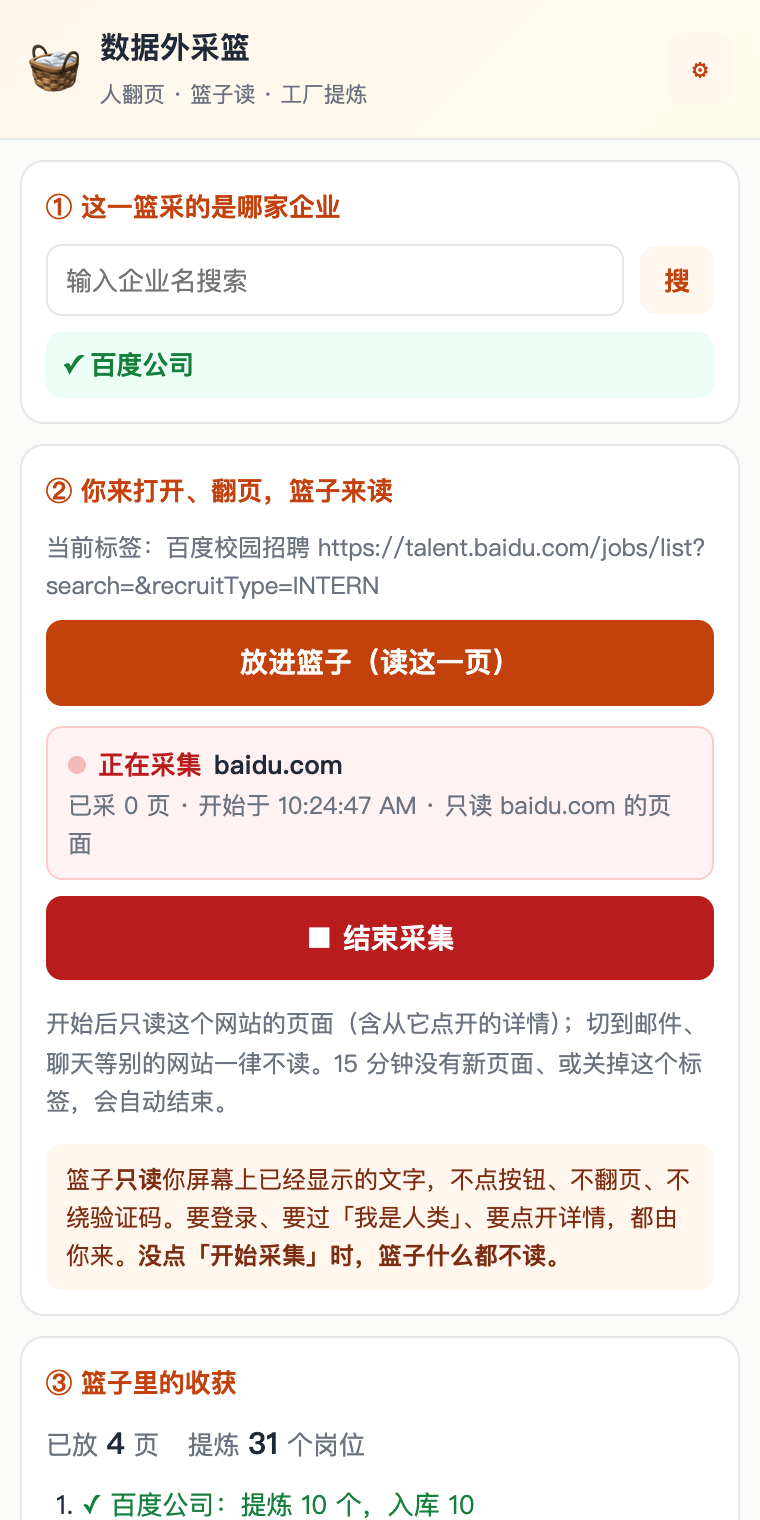
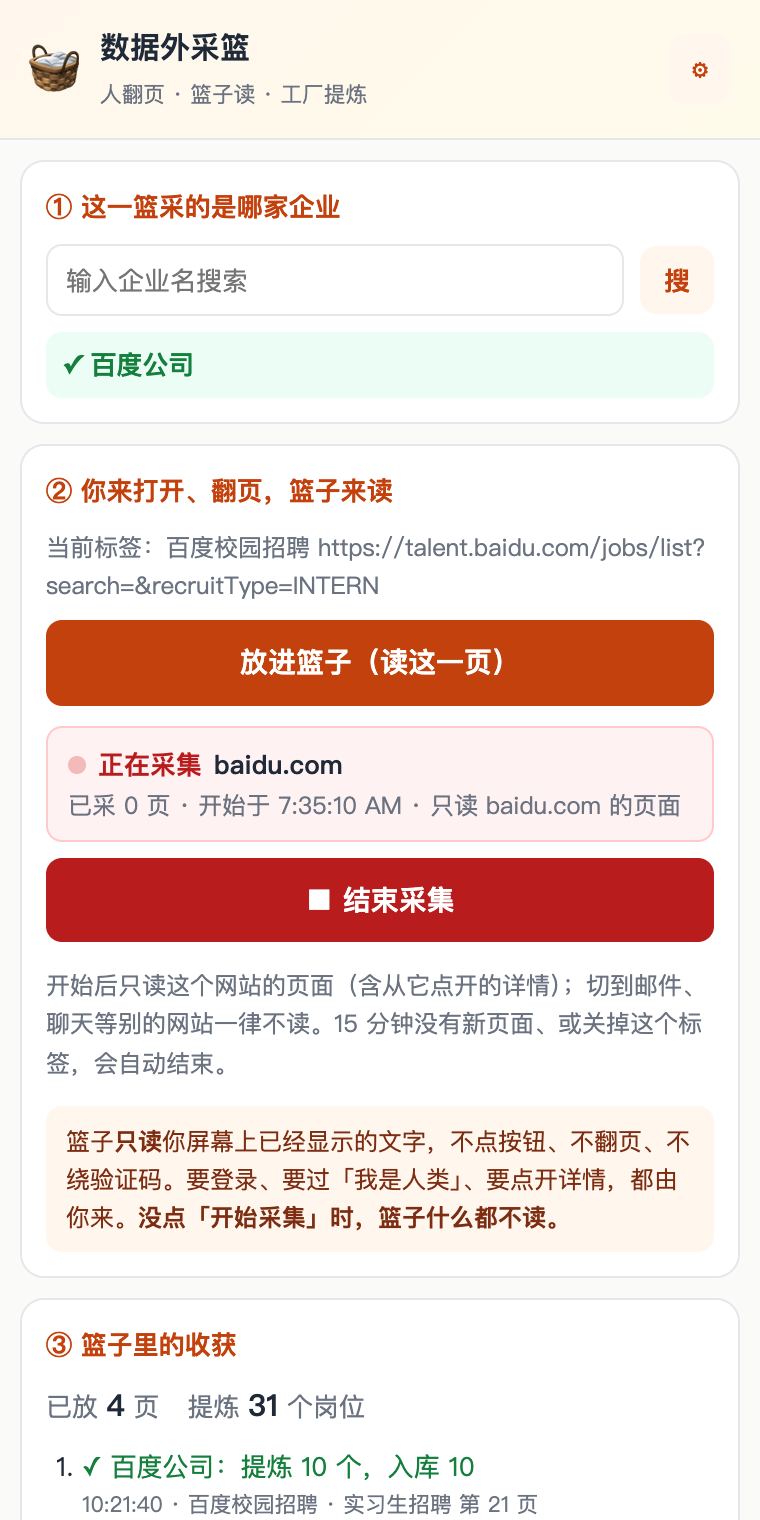
feat(数据外采篮 v0.2.0): 进度提示 / 挡空壳 / 列表与详情合并 / 精确跳转
- 进度：提炼时侧边栏顶上挂走秒提示（通常 10–30 秒，超过 40 秒提示页面较长）
- 挡空壳：名字在页面原文里找不到的岗位不入库（实测一个只有导航的页面被模型凭空挤出 9 个岗位，全部挡掉）
- 合并：没有岗位编号的站，同名同城的列表行 + 详情页（其中一条「仅列表信息」）并成一条
- 精确跳转：收篮子返回这一篮最终落在的岗位 id（被合并的指向留下那条），「看这一篮的 N 个岗位 ↗」只打开这几条；岗位库支持 ids 筛选并显示「只看这一篮」标签

Changed region(s): [[0.0605, 0.5257, 0.9382, 1.0]]

diff --git a/src/app/admin/db-job/page.tsx b/src/app/admin/db-job/page.tsx
@@ -34,7 +34,7 @@ export default function DbJobPage() {
   const [pageSize, setPageSize] = useState(50);
   const [selected, setSelected] = useState<React.Key[]>([]);
   const [exporting, setExporting] = useState(false);
-  const [filters, setFilters] = useState({ search: '', jobType: CAMPUS_JOB_TYPES.join(','), season: '', remote: '', status: '', review: '', overseas: false, missingJd: false, companyId: '', companyName: '', source: '', flag: '', publishFrom: '', publishTo: '' });
+  const [filters, setFilters] = useState({ search: '', jobType: CAMPUS_JOB_TYPES.join(','), season: '', remote: '', status: '', review: '', overseas: false, missingJd: false, companyId: '', companyName: '', source: '', flag: '', ids: '', publishFrom: '', publishTo: '' });
   const [sources, setSources] = useState<Record<string, number>>({});
   // 从「校招岗位提取」任务跳过来：?companyId=&companyName=&jobType=all 直接定位到刚提取的那批。
   // 以前跳过来是默认的「校招口径」，社招岗位被默认筛掉，看起来像「提取成功了库里却没有」。
@@ -45,7 +45,7 @@ export default function DbJobPage() {
     const jt = u.get('jobType');
     setFilters(f => ({
       ...f,
-      companyId: u.get('companyId') || '', companyName: u.get('companyName') || '', search: u.get('search') || '',
+      companyId: u.get('companyId') || '', companyName: u.get('companyName') || '', ids: u.get('ids') || '', search: u.get('search') || '',
       jobType: jt === 'all' ? '' : (jt ?? f.jobType),
       season: u.get('season') || '', remote: u.get('remote') || '', status: u.get('status') || '', review: u.get('review') || '',
       overseas: u.get('overseas') === '1', missingJd: u.get('missingJd') === '1',
@@ -64,7 +64,7 @@ export default function DbJobPage() {
     const put = (k: string, v: string | boolean) => { if (v) q.set(k, v === true ? '1' : String(v)); };
     put('search', filters.search); put('jobType', filters.jobType === CAMPUS_JOB_TYPES.join(',') ? '' : (filters.jobType || 'all'));
     put('season', filters.season); put('remote', filters.remote); put('status', filters.status); put('review', filters.review);
-    put('overseas', filters.overseas); put('missingJd', filters.missingJd); put('companyId', filters.companyId); put('companyName', filters.companyName);
+    put('overseas', filters.overseas); put('missingJd', filters.missingJd); put('companyId', filters.companyId); put('companyName', filters.companyName); put('ids', filters.ids);
     put('source', filters.source); put('flag', filters.flag); put('publishFrom', filters.publishFrom); put('publishTo', filters.publishTo);
     if (page > 1) q.set('page', String(page));
     if (pageSize !== 50) q.set('pageSize', String(pageSize));
@@ -74,7 +74,7 @@ export default function DbJobPage() {
 
   const query = useCallback((extra: Record<string, string> = {}) => new URLSearchParams({
     search: filters.search, jobType: filters.jobType, season: filters.season, remote: filters.remote,
-    status: filters.status, review: filters.review, overseas: filters.overseas ? '1' : '', missingJd: filters.missingJd ? '1' : '', companyId: filters.companyId,
+    status: filters.status, review: filters.review, overseas: filters.overseas ? '1' : '', missingJd: filters.missingJd ? '1' : '', companyId: filters.companyId, ids: filters.ids,
     source: filters.source, flag: filters.flag, publishFrom: filters.publishFrom, publishTo: filters.publishTo, ...extra,
   }), [filters]);
 
@@ -235,6 +235,7 @@ export default function DbJobPage() {
       <Panel padding={16}>
         <div style={{ display: 'flex', gap: 8, marginBottom: 12, flexWrap: 'wrap', alignItems: 'center' }}>
           <Input.Search key={urlReady ? 'ready' : 'init'} defaultValue={filters.search} placeholder="搜索岗位 / 企业 / 校招项目 / 地点" allowClear style={{ width: 300 }} onSearch={v => setFilter({ search: v })} />
+          {filters.ids && <Tag closable color="orange" style={{ padding: '4px 10px', fontSize: 13 }} onClose={() => setFilter({ ids: '' })}>🧺 只看这一篮采到的 {filters.ids.split(',').filter(Boolean).length} 个岗位</Tag>}
           {filters.companyId && <Tag closable color="purple" style={{ padding: '4px 10px', fontSize: 13 }} onClose={() => setFilter({ companyId: '', companyName: '' })}>只看：{filters.companyName || `企业 #${filters.companyId}`}</Tag>}
           <Select value={filters.jobType} style={{ width: 170 }} onChange={v => setFilter({ jobType: v })}
             options={[{ value: CAMPUS_JOB_TYPES.join(','), label: '校招口径（默认）' }, { value: '', label: '全部类型' }, ...toOptions(JOB_TYPE_LABELS)]} />

diff --git a/extension/data-basket/sidepanel.js b/extension/data-basket/sidepanel.js
@@ -81,9 +81,12 @@ function addLog(item, save = true) {
   const li = document.createElement('li');
   li.innerHTML = `<span class="${item.ok ? 'ok' : 'bad'}"></span><small></small>${item.ok && item.companyId ? '<a class="go" target="_blank">去岗位库看 ↗</a>' : ''}`;
   const go = li.querySelector('a.go');
-  if (go) go.href = `${state.base.replace(/\/$/, '')}/admin/db-job?companyId=${item.companyId}&companyName=${encodeURIComponent(item.company)}&jobType=all${item.kind === 'detail' ? '&flag=%E8%AF%A6%E6%83%85%E5%B7%B2%E8%A1%A5' : ''}`;
+  if (go) go.href = item.ids && item.ids.length
+    ? `${state.base.replace(/\/$/, '')}/admin/db-job?ids=${item.ids.join(',')}&jobType=all`
+    : `${state.base.replace(/\/$/, '')}/admin/db-job?companyId=${item.companyId}&companyName=${encodeURIComponent(item.company)}&jobType=all`;
+  if (go) go.textContent = item.ids && item.ids.length ? `看这一篮的 ${item.ids.length} 个岗位 ↗` : '去岗位库看 ↗';
   li.querySelector('span').textContent = item.note ? '■ 采集结束' : item.ok ? `✓ ${item.company}：提炼 ${item.jobs} 个，入库 ${item.saved}${item.kind === 'detail' ? '（详情）' : ''}` : `✗ ${item.error}`;
-  li.querySelector('small').textContent = `${item.time} · ${item.title || ''}`;
+  li.querySelector('small').textContent = `${item.time} · ${item.title || ''}${item.secs ? ` · 用时 ${item.secs} 秒` : ''}${item.dropped ? ` · 挡掉 ${item.dropped} 条原文里找不到的` : ''}`;
   $('log').prepend(li);
   if (save) chrome.storage.local.get('log').then(s => chrome.storage.local.set({ log: [item, ...(s.log || [])].slice(0, 100) }));
 }
@@ -98,13 +101,18 @@ async function putInBasket(reason) {
   const h = hash(snap.text);
   if (reason === 'follow' && h === state.lastHash) return;
   state.lastHash = h; state.sending = true; $('once').disabled = true; $('once').textContent = '篮子正在交给工厂…';
+  const t0 = Date.now();
+  const tick = document.createElement('li'); tick.className = 'working'; $('log').prepend(tick);
+  const draw = () => { const sec = Math.round((Date.now() - t0) / 1000); tick.innerHTML = '<span class="spin">◐</span> '; tick.append(sec < 40 ? `正在提炼这一页… ${sec} 秒（通常 10–30 秒）` : `页面较长，再等等… ${sec} 秒`); const sm = document.createElement('small'); sm.textContent = snap.title || ''; tick.append(sm); };
+  draw(); const timer = setInterval(draw, 1000);
   try {
     const r = await api('/api/basket/page', { method: 'POST', body: JSON.stringify({ companyId: state.company.id, ...snap, kind: 'auto' }) });
     state.pages++; state.jobs += r.jobs; if (state.session) state.session.pages++; renderStats(); chrome.storage.local.set({ pages: state.pages, jobs: state.jobs });
-    addLog({ ok: true, company: r.company, companyId: state.company.id, jobs: r.jobs, saved: r.saved, kind: r.kind, title: snap.title, time: new Date().toLocaleTimeString() });
+    addLog({ ok: true, company: r.company, companyId: state.company.id, ids: r.ids || [], dropped: r.dropped || 0, secs: Math.round((Date.now() - t0) / 1000), jobs: r.jobs, saved: r.saved, kind: r.kind, title: snap.title, time: new Date().toLocaleTimeString() });
   } catch (e) {
     addLog({ ok: false, error: e.message, title: snap.title, time: new Date().toLocaleTimeString() });
   } finally {
+    clearInterval(timer); tick.remove();
     state.sending = false; $('once').disabled = false; $('once').textContent = '放进篮子（读这一页）';
   }
 }

diff --git a/src/lib/job-store.ts b/src/lib/job-store.ts
@@ -226,6 +226,8 @@ export async function markRealEntry(companyId: number, company: string, url: str
  * 同一家企业里「岗位编号 + 城市」相同的在招岗位只留一条：留内容最全的（职责最长），另一条有而它没有的字段补过来，另一条软删。
  * 起因：百度列表页的岗位行没有独立链接，按「企业|编号|城市」去重；点开详情页读到的同一个岗位有链接，按链接去重——成了两条（10-16）。
  */
+/** 最近一次合并：被并掉的岗位 id → 留下的那条 id（数据外采篮用它把「去岗位库看」指到真正留下的记录） */
+export const mergedInto = new Map<number, number>();
 export async function mergeSameReqId(companyId: number) {
   const { data } = await supabaseAdmin.from('jobs').select('*').eq('company_id', companyId).not('if_delete', 'is', true).not('job_req_id', 'is', null).neq('job_req_id', '');
   const groups = new Map<string, any[]>();
@@ -251,7 +253,27 @@ export async function mergeSameReqId(companyId: number) {
     if (longest && longest !== keep.name) patch.name = longest;
     await supabaseAdmin.from('jobs').update(patch).eq('id', keep.id);
     await supabaseAdmin.from('jobs').update({ if_delete: true, updated_at: new Date().toISOString() }).in('id', rest.map(r => r.id));
+    for (const r of rest) mergedInto.set(r.id, keep.id);
     merged += rest.length;
+  }
+  // 第二遍：没有岗位编号的站，列表行和详情页按名称 + 城市对上（名称去掉「北京-」这类城市前缀），其中一条是「仅列表信息」才并
+  const { data: rest2 } = await supabaseAdmin.from('jobs').select('*').eq('company_id', companyId).not('if_delete', 'is', true).eq('status', 'open');
+  const nameKey = (j: any) => `${String(j.name || '').replace(/\s+/g, '').replace(/^[\u4e00-\u9fa5]{2,3}[-－—]/, '').toLowerCase()}|${String(j.location || '').trim()}`;
+  const g2 = new Map<string, any[]>();
+  for (const j of rest2 || []) g2.set(nameKey(j), [...(g2.get(nameKey(j)) || []), j]);
+  for (const g of g2.values()) {
+    if (g.length !== 2 || !g.some(j => (j.collect_flags || []).includes('仅列表信息'))) continue;
+    const ids = g.map(j => String(j.job_req_id || '')).filter(Boolean);
+    if (new Set(ids).size > 1) continue;   // 两条编号不一样：是两个岗位
+    g.sort((x, y) => String(y.responsibilities || '').length - String(x.responsibilities || '').length);
+    const [keep, drop] = g;
+    const patch: Record<string, any> = {};
+    for (const [k, v] of Object.entries(drop)) { if (SKIP.has(k) || v == null || v === '' || (Array.isArray(v) && !v.length)) continue; const cur = keep[k]; if (cur == null || cur === '' || (Array.isArray(cur) && !cur.length)) patch[k] = v; }
+    const flags = new Set<string>([...(keep.collect_flags || []), ...(drop.collect_flags || [])]); if (flags.has('详情已补')) flags.delete('仅列表信息');
+    patch.collect_flags = [...flags];
+    await supabaseAdmin.from('jobs').update(patch).eq('id', keep.id);
+    await supabaseAdmin.from('jobs').update({ if_delete: true, updated_at: new Date().toISOString() }).eq('id', drop.id);
+    mergedInto.set(drop.id, keep.id); merged++;
   }
   return merged;
 }

diff --git a/src/lib/basket.ts b/src/lib/basket.ts
@@ -7,7 +7,7 @@
  */
 import { supabaseAdmin } from '@/lib/supabase';
 import { structureJobData } from '@/lib/agents/structurer-job';
-import { upsertJobsFromLog } from '@/lib/job-store';
+import { upsertJobsFromLog, mergedInto } from '@/lib/job-store';
 import { verifyToken, signToken, type SessionPayload } from '@/lib/jwt';
 
 export const BASKET_MODEL = () => process.env.BASKET_MODEL || process.env.CHEAP_MODEL || 'qwen-plus';
@@ -67,6 +67,13 @@ export async function ingestBasketPage(user: SessionPayload, p: BasketPage) {
     await supabaseAdmin.from('job_crawl_logs').update({ structurer_status: 'failed', error_message: '提炼失败' }).eq('id', log.id);
     throw new Error('这一页没提炼出结果，换一页再试');
   }
+  // 挡空壳：模型提炼出来、但名字在这一页原文里找不到的岗位不要（几乎全是导航的薄页面容易被挤出一个占位岗位）
+  const flat = (x: string) => String(x || '').replace(/\s+/g, '').toLowerCase();
+  const T = flat(text);
+  const coreName = (n: string) => flat(n).replace(/^[\u4e00-\u9fa5]{2,3}[-－—]/, '').replace(/[（(][^）)]*[）)]$/, '').slice(0, 12);
+  const kept = r.jobs.filter(j => { const c = coreName(String(j.name || '')); return c.length >= 2 && T.includes(c); });
+  const dropped = r.jobs.length - kept.length;
+  r.jobs = kept;
   // partial_page：篮子送来的只是一页，入库时不拿它判断别的岗位「已下线」
   const structured = { ...r, partial_page: true, pipeline_log: [{ key: 'basket', title: `数据外采篮 · ${user.email}`, status: 'success', color: 'green' }] };
   await supabaseAdmin.from('job_crawl_logs').update({ structurer_status: 'success', structured_json: structured }).eq('id', log.id);
@@ -85,7 +92,10 @@ export async function ingestBasketPage(user: SessionPayload, p: BasketPage) {
       await supabaseAdmin.from('jobs').update({ collect_flags: [...f] }).eq('id', j.id);
     }
   }
-  return { company: co.name, jobs: r.jobs.length, saved, kind: isDetail ? 'detail' : 'list', names: r.jobs.slice(0, 12).map(j => String(j.name || '')) };
+  // 这一篮最终落在哪几条岗位上（被合并的指到留下的那条），插件「去岗位库看」只看这几条
+  const { data: mine } = await supabaseAdmin.from('jobs').select('id, if_delete').eq('source_log_id', log.id);
+  const ids = [...new Set((mine || []).map(j => j.if_delete ? (mergedInto.get(j.id) || 0) : j.id).filter(Boolean))];
+  return { company: co.name, jobs: r.jobs.length, saved, dropped, ids, kind: isDetail ? 'detail' : 'list', names: r.jobs.slice(0, 12).map(j => String(j.name || '')) };
 }
 
 /** 待采清单：AI 自己啃不动的企业（库里有档、0 个在招岗位），附上卡在哪、可能的入口 */

diff --git a/src/app/basket/page.tsx b/src/app/basket/page.tsx
@@ -26,7 +26,7 @@ const STEPS_USE: Step[] = [
   { t: '连接工厂', d: '在本页最上面「开始使用」的 ② 里生成篮子口令、复制；点开插件的 ⚙，平台地址填 https://www.aidataoffice.com，粘贴口令、保存，显示「连上了」就好。', img: '/basket/step-connect.png' },
   { t: '选企业', d: '在插件里搜这一篮要采的企业。打开招聘站时插件会按网址先猜几家，已有岗位最多的排最前；同一个招聘站在名单里常对应好几家（比如百度公司 / 百度（中国）/ 网讯），选岗位一直挂着的那家。', img: '/basket/step-pick.png' },
   { t: '开始采集，你来翻页', d: '打开招聘站，该登录登录、该过验证过验证，翻到职位列表，点插件里的「▶ 开始采集」。之后你每翻一页、每点开一个详情，篮子自动读一次——只读这个网站，切到邮件、聊天等别的网站一律不读；工具栏的篮子上会亮红色「采」字。采完点「■ 结束采集」（15 分钟没新页面、或关掉这个标签也会自动结束）。只想读一页，就点「放进篮子」。' },
-  { t: '看收获', d: '侧边栏实时显示每一篮提炼了几个岗位、入了多少库，点「去岗位库看 ↗」直接跳到这家企业的岗位。岗位以「待审核」进岗位库，带「数据外采篮」「仅列表信息 / 详情已补」标记（岗位库可按「采集标记」筛选），信息源库同时记下真实的职位列表页。', img: '/basket/step-follow.png' },
+  { t: '看收获', d: '提炼的时候侧边栏顶上有走秒的进度（一页通常 10–30 秒）；完成后显示这一篮提炼了几个岗位、入了多少库，点「看这一篮的 N 个岗位 ↗」直接打开这几个岗位。名字在页面原文里找不到的（导航页上被凭空挤出来的）会被挡掉，不入库。岗位以「待审核」进岗位库，带「数据外采篮」「仅列表信息 / 详情已补」标记（岗位库可按「采集标记」筛选），信息源库同时记下真实的职位列表页。', img: '/basket/step-follow.png' },
 ];
 
 export default function BasketPage() {

diff --git a/src/app/api/db/jobs/route.ts b/src/app/api/db/jobs/route.ts
@@ -45,6 +45,8 @@ export async function GET(request: Request) {
     // 来源多选（迁移 031 起是数组）：none = 没有来源；选了某个来源 = 来源里包含它
     // 采集标记（迁移 032）：仅列表信息 / 详情已补 / 重点岗位 / 支持内推码 / 数据外采篮
     if (get('flag')) query = query.contains('collect_flags', [get('flag')]);
+    // 数据外采篮「去岗位库看」：只看这一篮采到的那几个岗位
+    if (get('ids')) { const ids = get('ids').split(',').map(Number).filter(Boolean).slice(0, 200); if (ids.length) query = query.in('id', ids); }
     if (get('source') === 'none') query = query.or('source.is.null,source.eq.{}');
     else if (get('source')) query = query.contains('source', [get('source')]);
     if (get('publishFrom')) query = query.gte('official_publish_date', get('publishFrom'));

diff --git a/extension/data-basket/sidepanel.css b/extension/data-basket/sidepanel.css
@@ -43,3 +43,6 @@ button.stop { width: 100%; padding: 10px; background: #b91c1c; font-size: 14px; 
 .rec b { color: var(--ink); word-break: break-all; }
 .dot { width: 9px; height: 9px; border-radius: 50%; background: #dc2626; animation: blink 1.2s infinite; flex: none; }
 @keyframes blink { 50% { opacity: .25; } }
+#log li.working { color: #b45309; list-style: none; margin-left: -18px; padding: 6px 8px; background: #fffbeb; border-radius: 8px; }
+.spin { display: inline-block; animation: spin 1s linear infinite; }
+@keyframes spin { to { transform: rotate(360deg); } }
